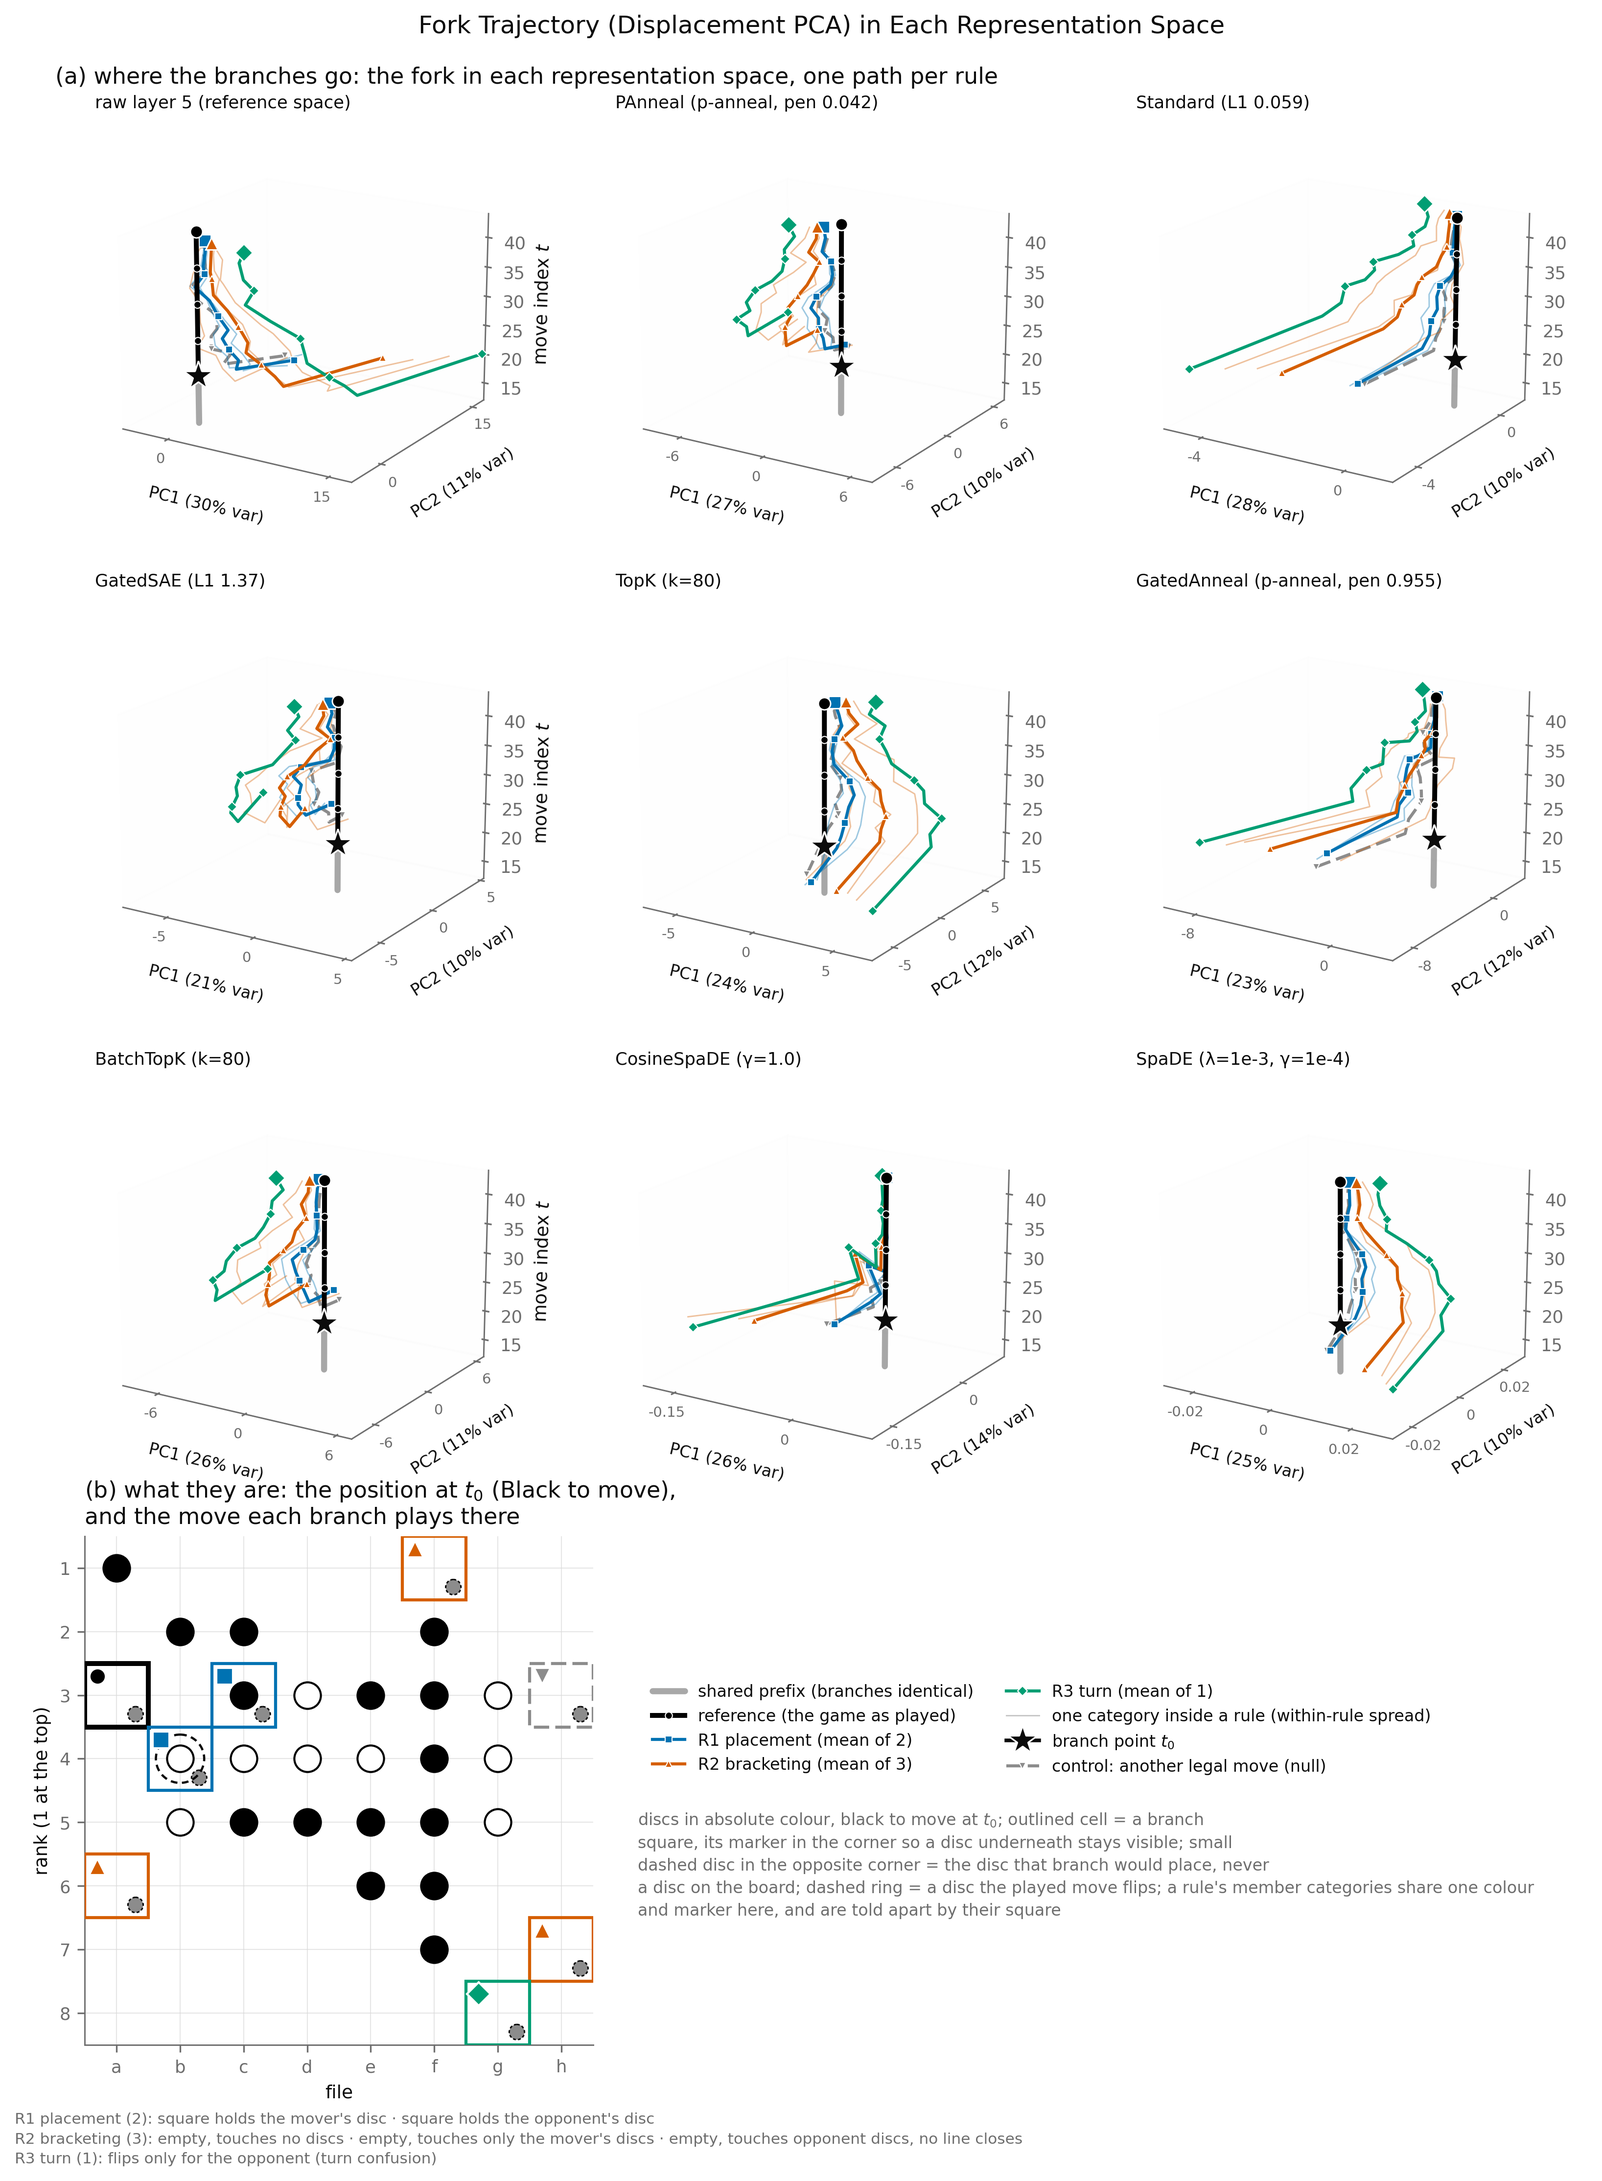
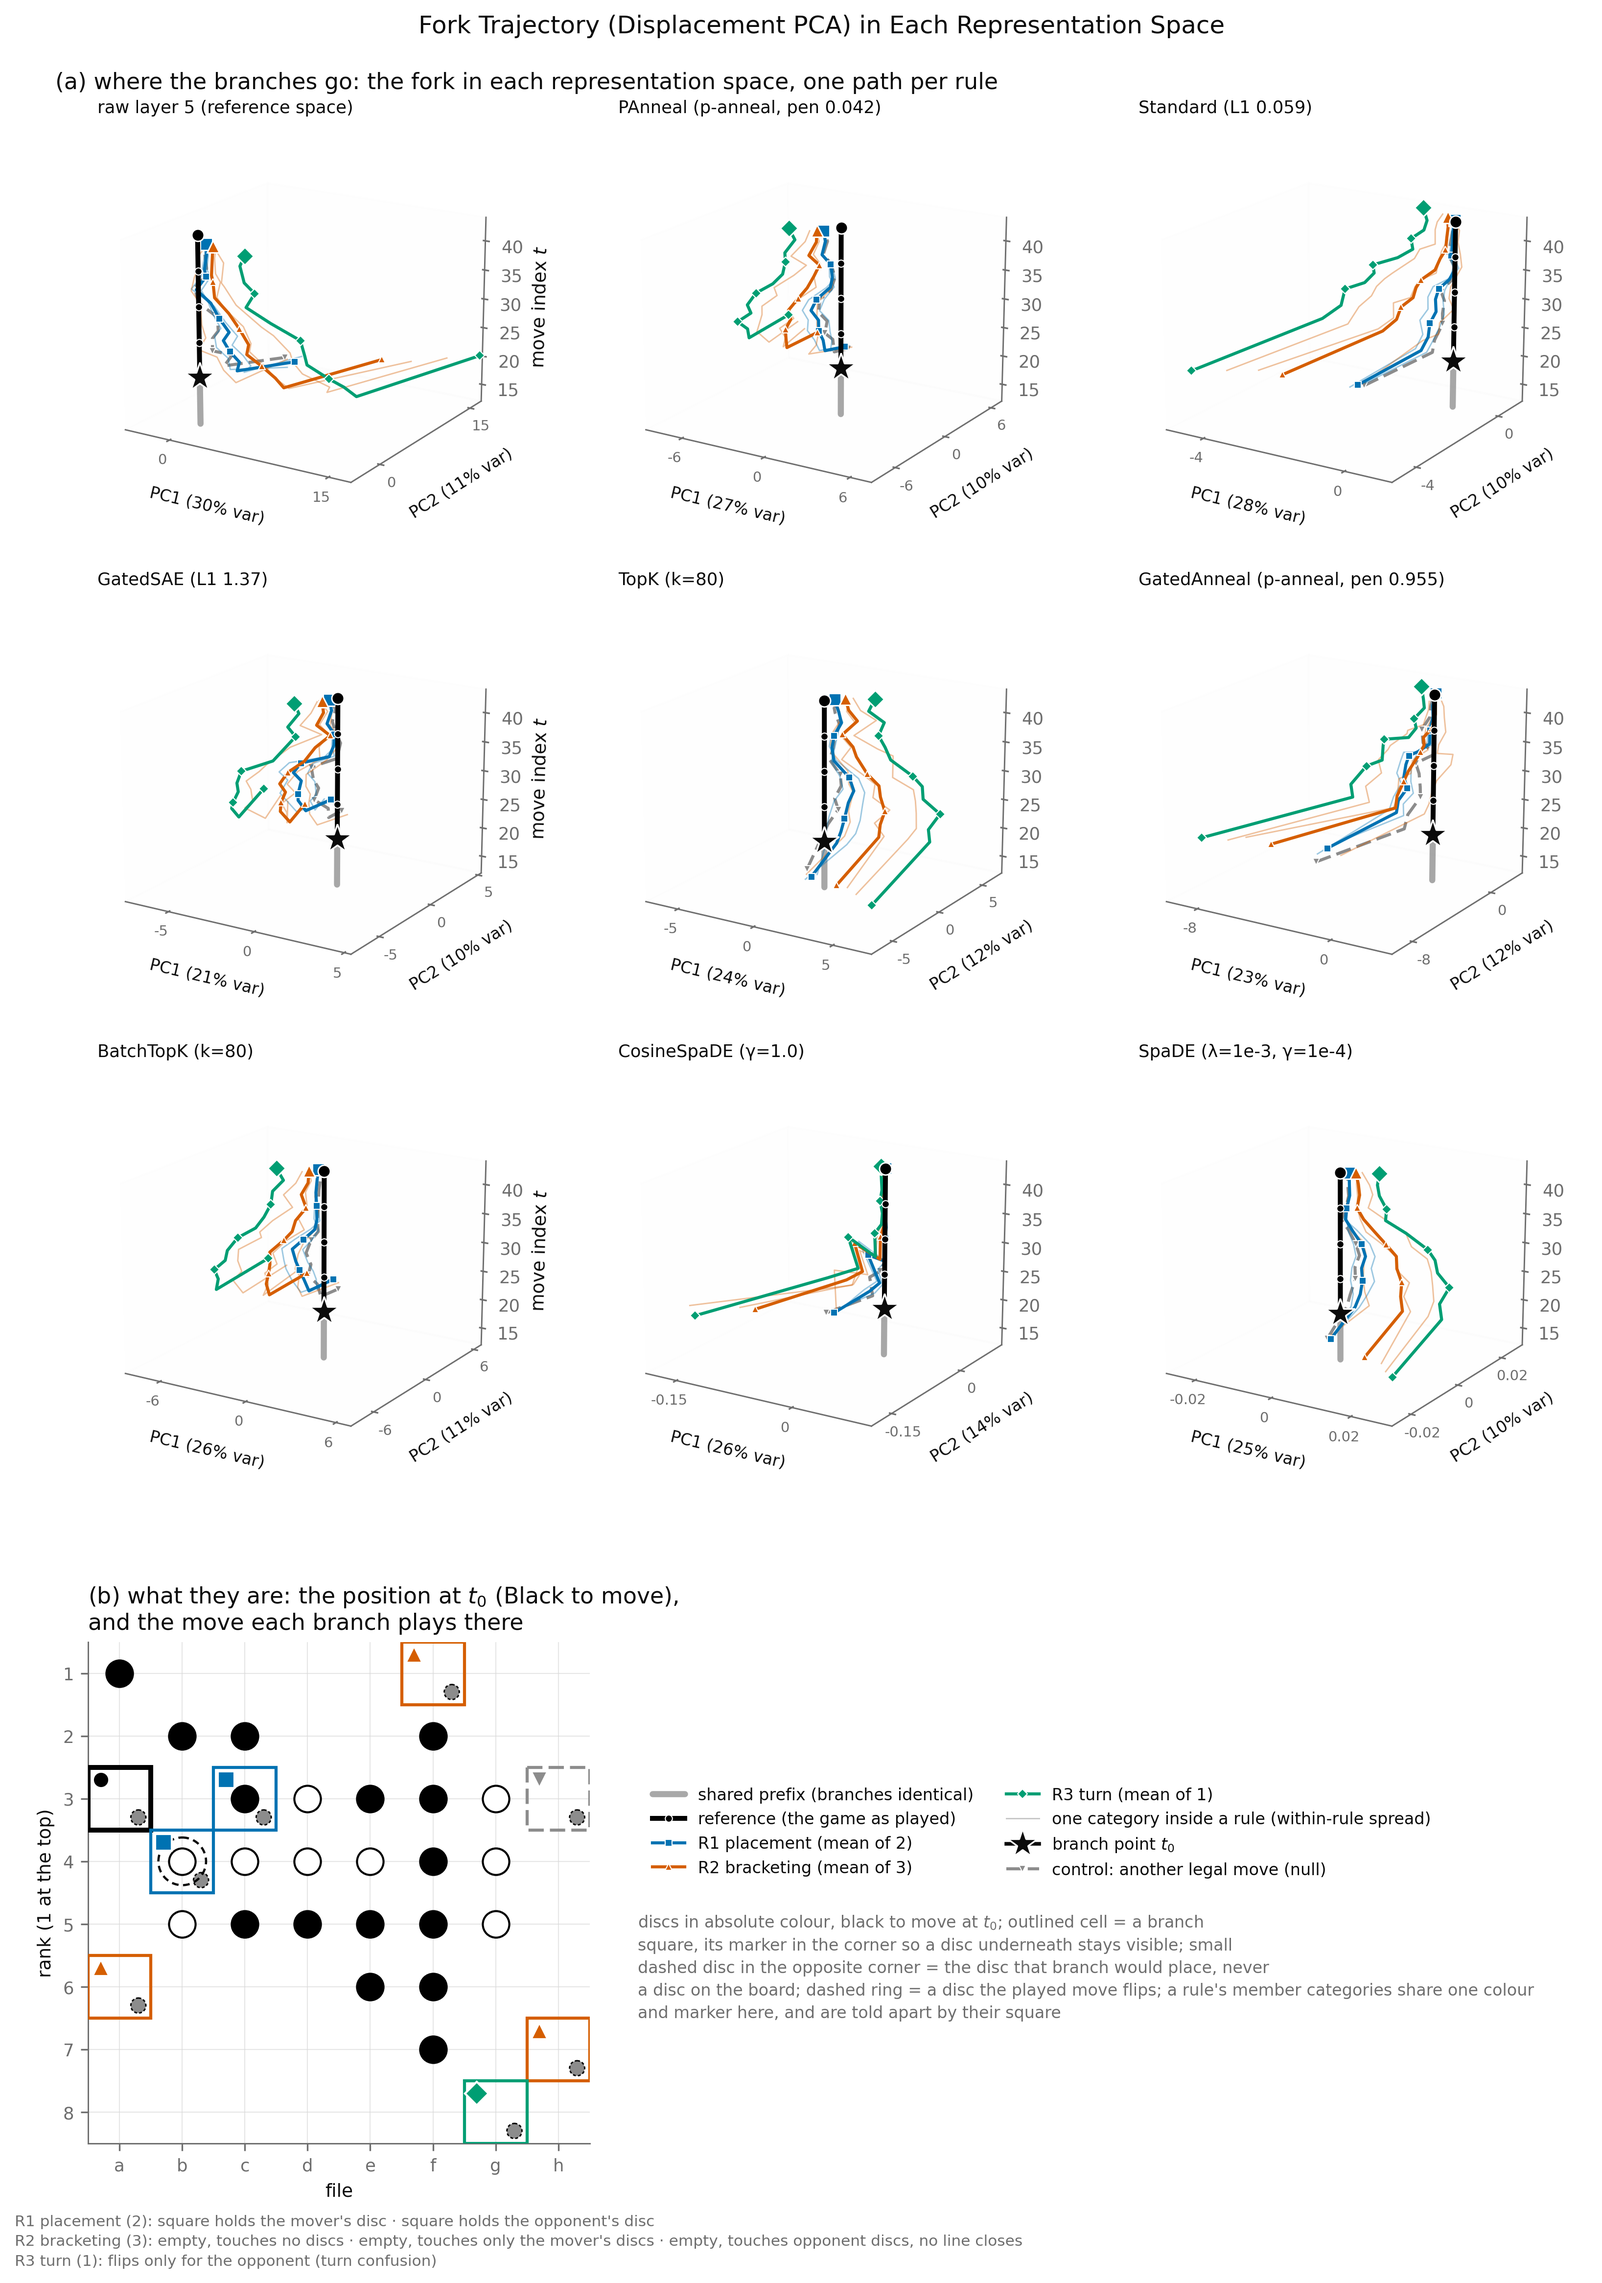
Give (b) room: the grid's axis labels were crowding the board's title
ROW_GAP grows the canvas rather than raising hspace, which would have bought the
space by shrinking the grid and the board. Both planes re-rendered, since the
constant is shared and one figure at the old spacing would silently disagree
with the other.

diff --git a/analysis/violation_divergence/fork_and_board/make_figures.py b/analysis/violation_divergence/fork_and_board/make_figures.py
@@ -61,6 +61,7 @@ FIG_DIR = Path(__file__).resolve().parent / "figures"
 NCOL = 3
 CELL_W, CELL_H = 3.7, 3.5  # one fork cell, as in ../game_trajectory's grid
 BOARD_H = 3.9              # the board row; the board is square, so this is its width too
+ROW_GAP = 0.7              # clear air between the grid's axis labels and (b)'s title
 # R^21 is 11 step-length components and 10 turning-angle ones, so it carries
 # displacement magnitude as well as curvature; the name says both.
 PLANE_NAME = {"displacement": "Displacement",
@@ -114,9 +115,12 @@ def figure(g: Game, Z: np.ndarray, pos: np.ndarray, plane: str, method: str,
     k = int(np.flatnonzero(pos == g.t0)[0])
     nrow = int(np.ceil(len(cells) / NCOL))
 
-    fig = plt.figure(figsize=(CELL_W * NCOL, CELL_H * nrow + BOARD_H))
+    # ROW_GAP buys clear air between the grid's bottom axis labels and (b)'s
+    # title; it is added to the canvas rather than taken out of the panels.
+    fig = plt.figure(figsize=(CELL_W * NCOL, CELL_H * nrow + BOARD_H + ROW_GAP))
     gs = fig.add_gridspec(2, 1, height_ratios=[CELL_H * nrow, BOARD_H],
-                          left=0.03, right=0.97, top=0.93, bottom=0.02, hspace=0.05)
+                          left=0.03, right=0.97, top=0.93, bottom=0.02,
+                          hspace=ROW_GAP / BOARD_H)
     grid = gs[0].subgridspec(nrow, NCOL, wspace=0.06, hspace=0.16)
     # The board cell is as wide as it is tall, so the square board fills it and the
     # band beside it gets the rest rather than a strip of dead space.
